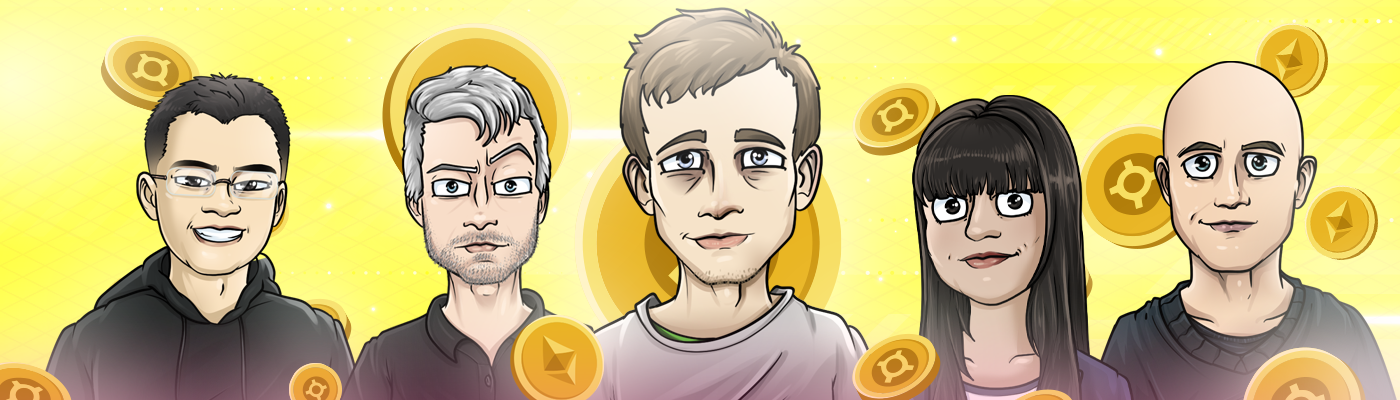
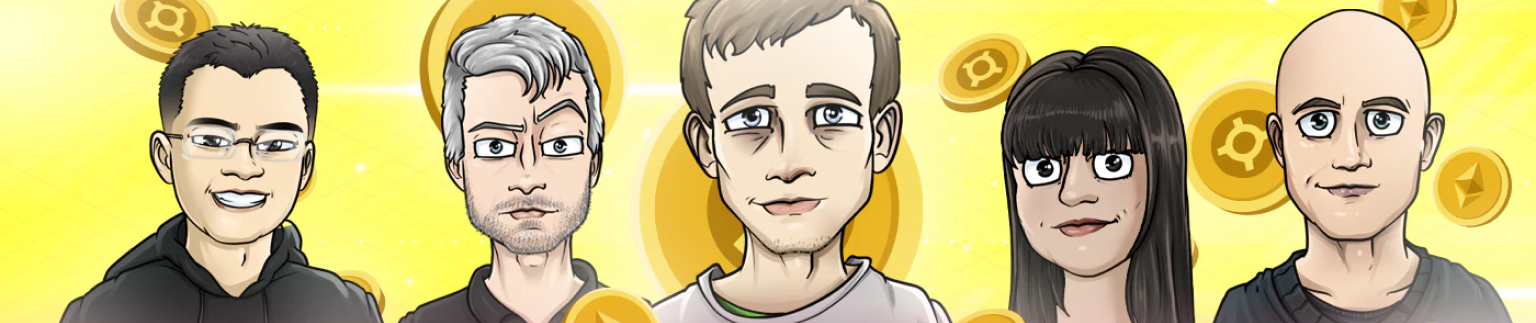
improving the categories hero section

diff --git a/src/pages/categories/index.tsx b/src/pages/categories/index.tsx
@@ -20,9 +20,9 @@ const Categories: NextPage = () => {
           description: CATEGORY_HEADER,
         }}
       />
-      <Box mt="0" pb={12}>
+      <Box>
         <Flex
-          h={{ base: '223px', md: '270px', lg: '338px' }}
+          h={325}
           justify={'center'}
           align={'center'}
           objectFit="cover"
@@ -52,7 +52,6 @@ const Categories: NextPage = () => {
               maxW={{ base: '90%', md: '70%', lg: '730px' }}
             >
               <Text
-                mb={7}
                 fontSize={{ base: '12px', md: '14px', lg: '16px' }}
                 mx={{ base: '5', md: '8', lg: '14' }}
                 color={'heroHeaderDescription'}
